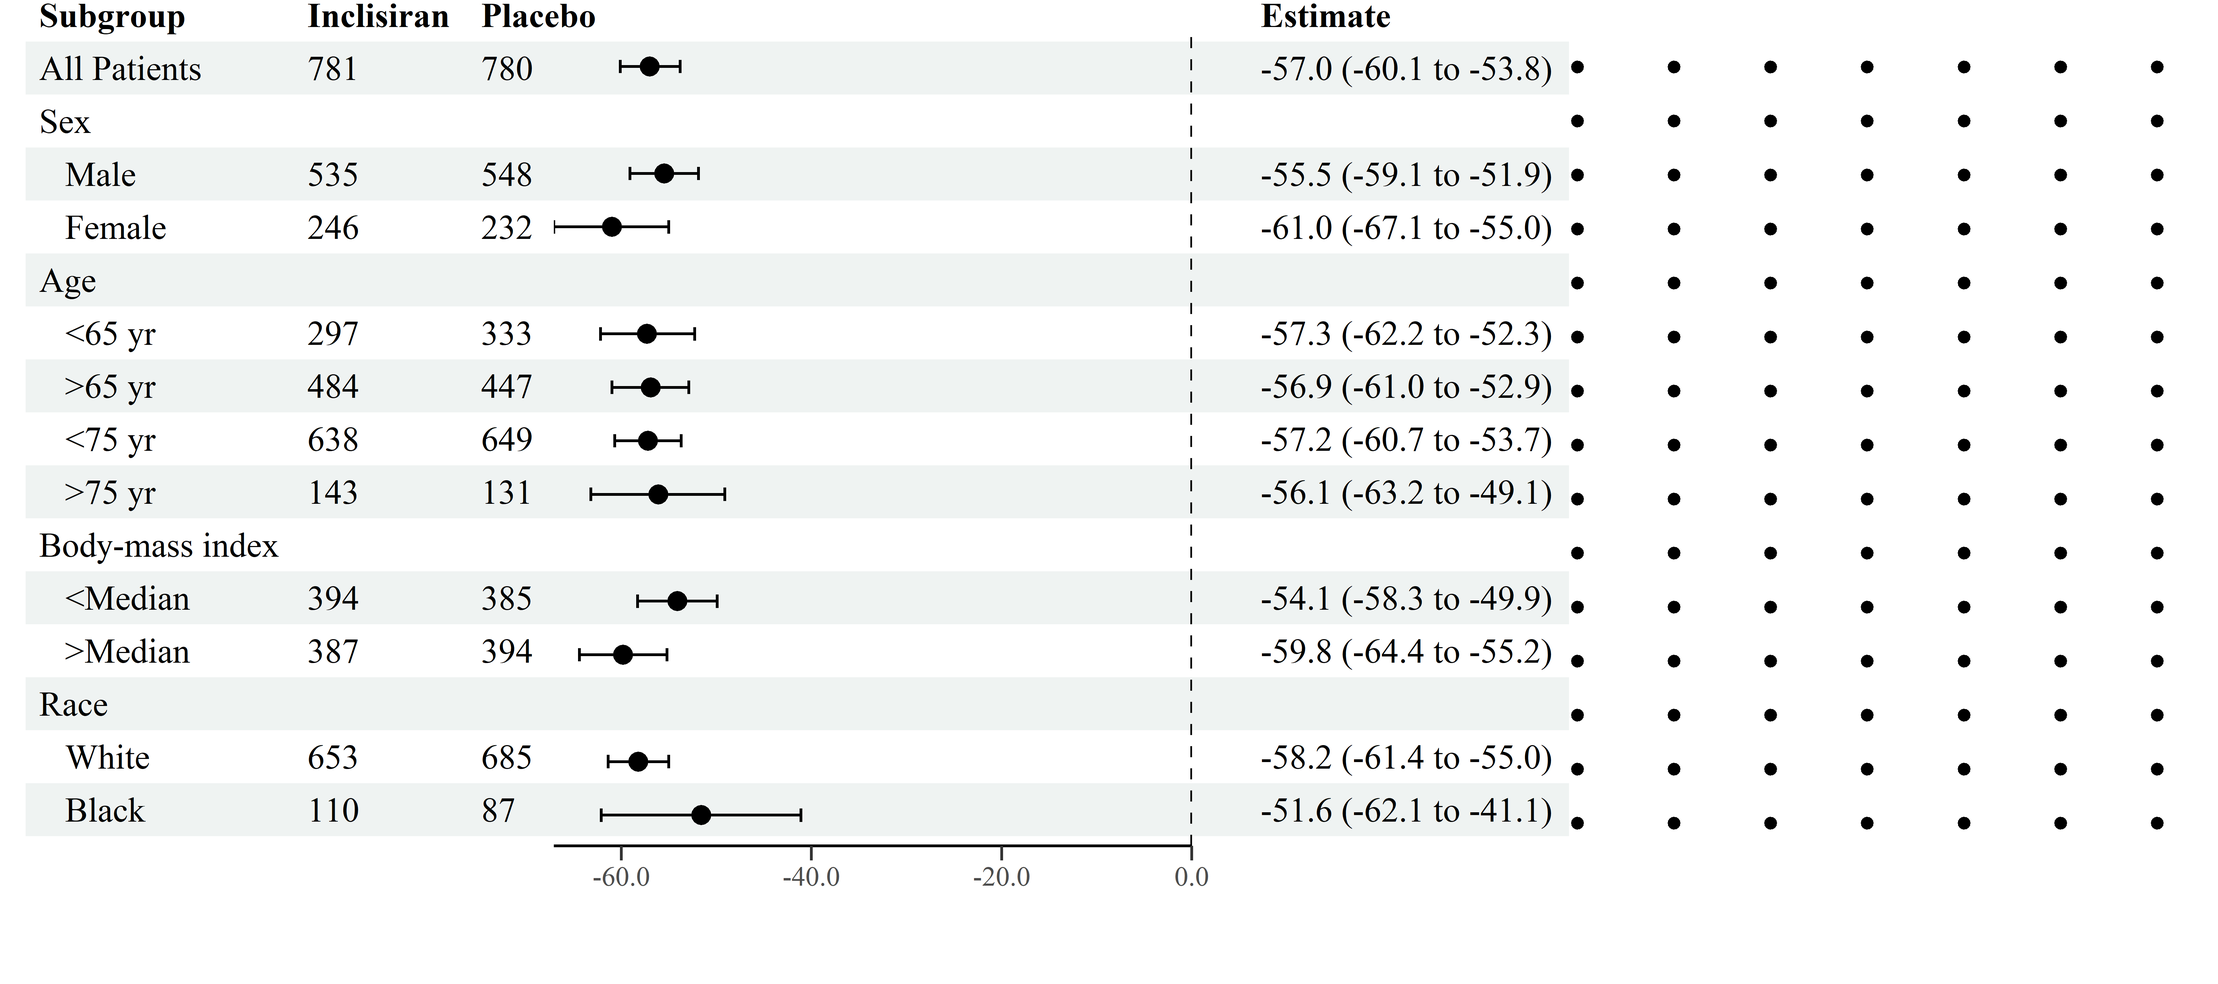
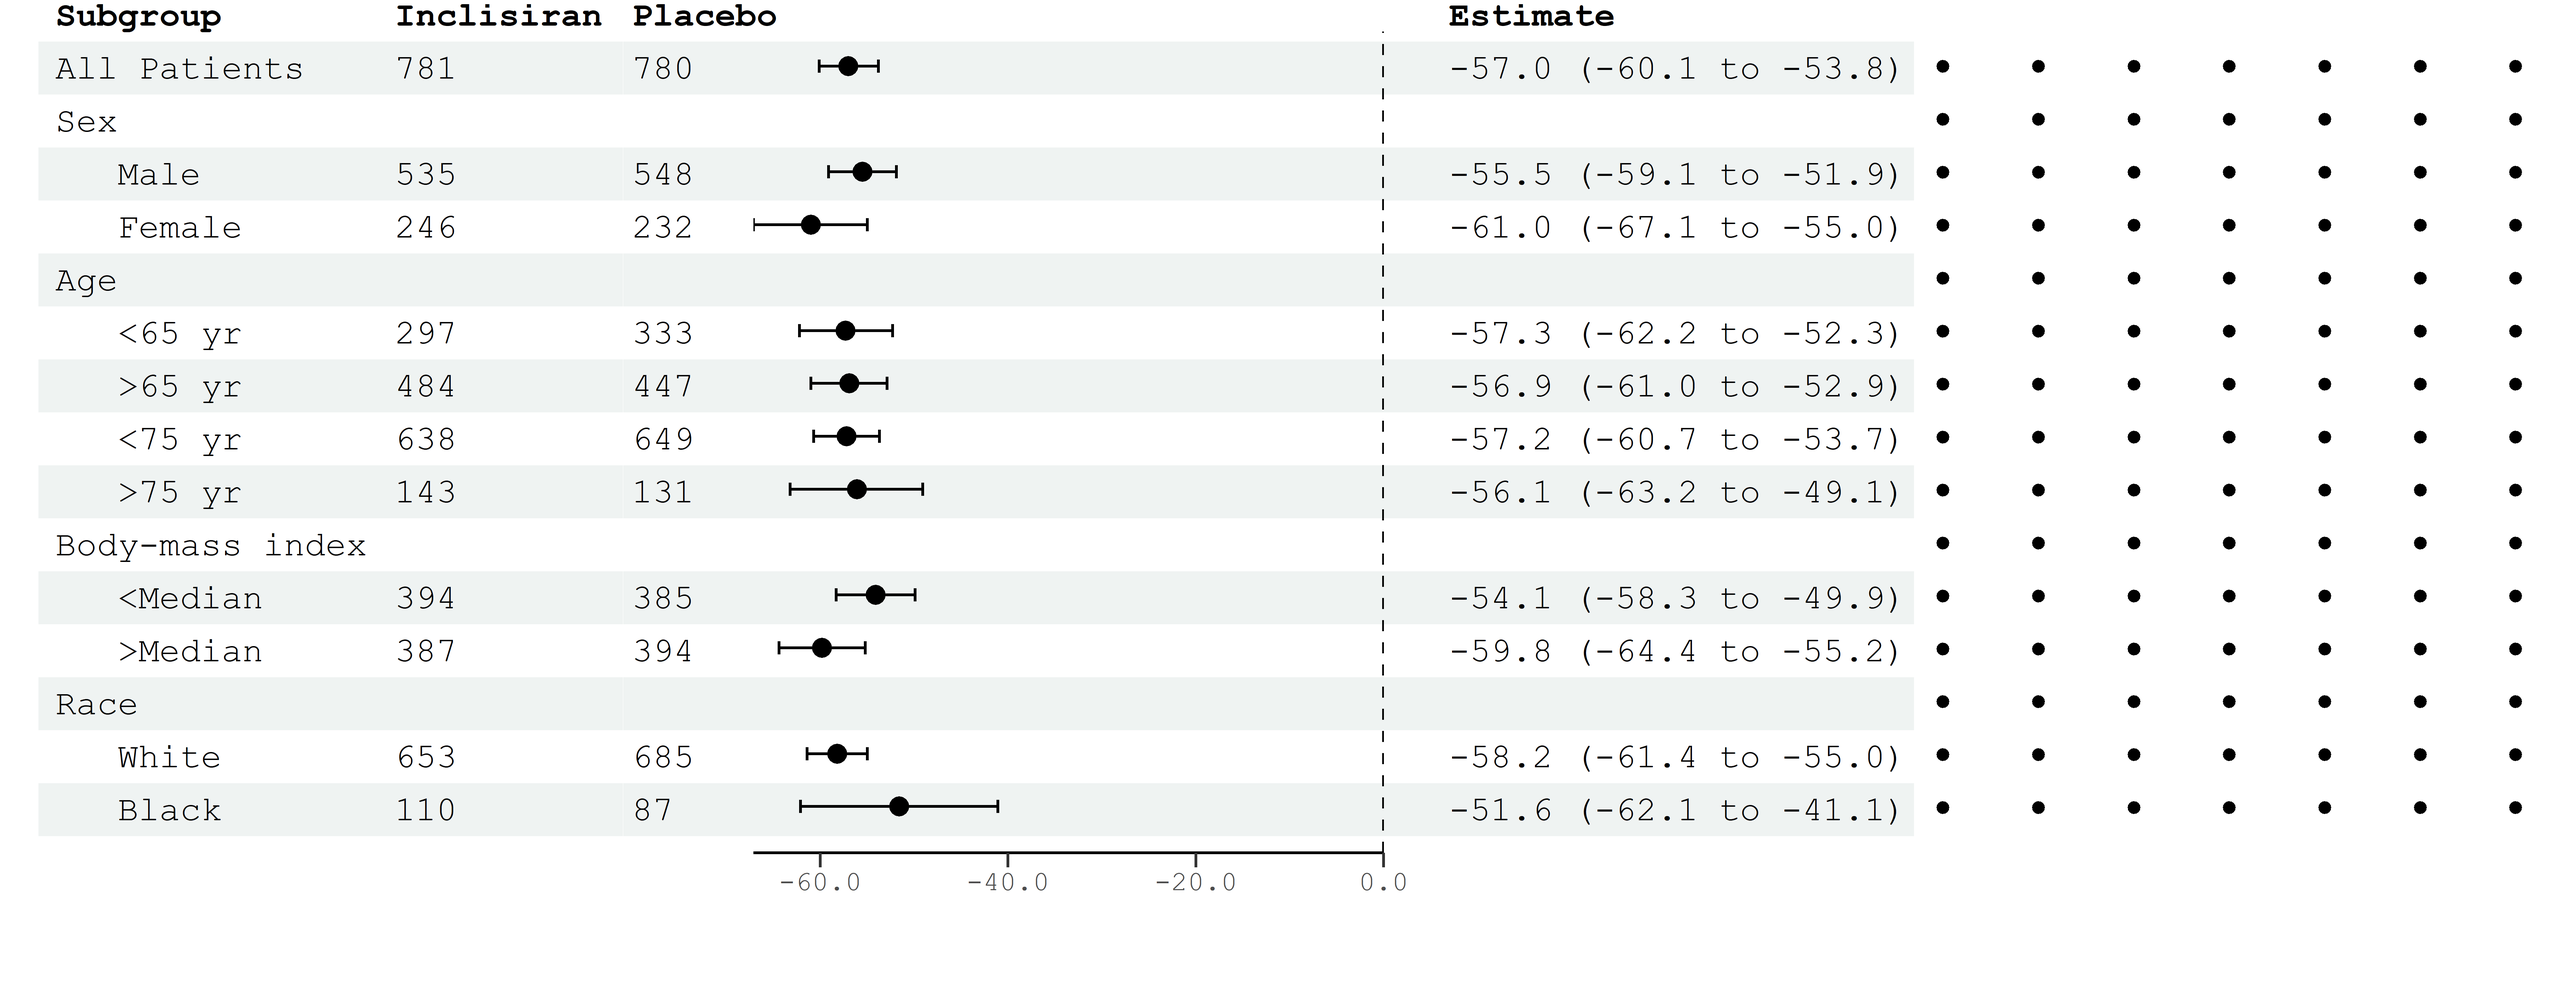
quiet down warnings, readme updated to include new features

diff --git a/README.md b/README.md
@@ -1,7 +1,7 @@
 
 <!-- README.md is generated from README.Rmd. Please edit that file -->
 
-# forester
+# Forester
 
 <!-- badges: start -->
 <!-- badges: end -->
@@ -19,7 +19,7 @@ from this github repo.
 devtools::install_github("rdboyes/forester")
 ```
 
-## Example
+## Basic Usage
 
 Suppose we wish to replicate the following figure published in the NEJM
 \[1\]:
@@ -51,14 +51,11 @@ forester(left_side_data = table[,1:3],
            display = FALSE,
            xlim = c(-100, 25),
            file_path = here::here("man/figures/forester_plot.png"))
-#> Scale for 'x' is already present. Adding another scale for 'x', which will
-#> replace the existing scale.
-#> Warning: Removed 8 rows containing missing values (geom_point).
 ```
 
 ![](man/figures/forester_plot.png)
 
-forester handles the alignment of the graph and the table automatically,
+Forester handles the alignment of the graph and the table automatically,
 so figures with fewer rows or columns should work by simply passing a
 smaller data frame to the function:
 
@@ -69,9 +66,6 @@ forester(left_side_data = table[1:12,1:3],
            ci_high = table$`CI high`[1:12],
            display = FALSE,
            file_path = here::here("man/figures/fewer_rows.png"))
-#> Scale for 'x' is already present. Adding another scale for 'x', which will
-#> replace the existing scale.
-#> Warning: Removed 3 rows containing missing values (geom_point).
 ```
 
 ![](man/figures/fewer_rows.png)
@@ -83,19 +77,26 @@ forester(left_side_data = table[,1],
            ci_high = table$`CI high`,
            display = FALSE,
            file_path = here::here("man/figures/fewer_cols.png"))
-#> Scale for 'x' is already present. Adding another scale for 'x', which will
-#> replace the existing scale.
-#> Warning: Removed 8 rows containing missing values (geom_point).
 ```
 
 ![](man/figures/fewer_cols.png)
 
-## Additional Fonts
+## Display Options
 
-While Courier has a certain appeal, you might want to give your tables a
-more modern look. However, due to the difficulty of aligning all
-elements when using them, the use of non-monospaced fonts should be
-considered experimental at this stage.
+By default, forester will both display the plot in the RStudio viewer
+(`display = TRUE`) and save a high quality version to the current
+directory (`file_path = here::here("forester_plot.png")`) at a
+resolution controllable by `dpi`. When making a rmarkdown document (such
+as this one), these options should be overwritten as required. You can
+display the images created by forester using standard RMarkdown syntax
+(i.e. `![](path)`).
+
+## Font Families
+
+Pass any font to `font_family` to control the output font. Tested
+options include `"mono"`, `"sans"`, and `"serif"`. Any font will work,
+but alignment may not be perfect for untested fonts. Use the provided
+options `nudge_x` and `nudge_y` to correct alignment issues.
 
 ``` r
 library(extrafont)
@@ -111,47 +112,103 @@ forester(left_side_data = table[,1:3],
            display = FALSE,
            file_path = here::here("man/figures/forester_plot_fira.png"),
            font_family = "Fira Sans")
-#> Scale for 'x' is already present. Adding another scale for 'x', which will
-#> replace the existing scale.
-#> Warning: Removed 8 rows containing missing values (geom_point).
 ```
 
-![](man/figures/forester_plot_fira.png) Adjusting table properties with
-different fonts will still work:
+![](man/figures/forester_plot_fira.png)
+
+## Right Side Data
+
+The option `estimate_precision` can be used to change the number of
+decimals displayed in the right hand side table. `estimate_col_name`
+allows you to change the name of the default right side column. If you
+require more control, pass a dataframe to `right_side_data` to override
+the right side completely.
 
 ``` r
-forester(left_side_data = table[1:12,1:3],
-           estimate = table$Estimate[1:12],
-           ci_low = table$`CI low`[1:12],
-           ci_high = table$`CI high`[1:12],
+forester(left_side_data = table[,1],
+           estimate = table$Estimate,
+           ci_low = table$`CI low`,
+           ci_high = table$`CI high`,
            display = FALSE,
+           estimate_precision = 3,
+           estimate_col_name = "Estimate (95% CI)",
+           file_path = here::here("man/figures/more_precise.png"))
+```
+
+![](man/figures/more_precise.png)
+
+## Plot Width
+
+Change `ggplot_width` from its default value of 30 to adjust the
+relative amount of space that the figure takes up. `nudge_x` can be used
+to correct alignment issues if this option causes any.
+
+``` r
+forester(left_side_data = table[,1],
+           estimate = table$Estimate,
+           ci_low = table$`CI low`,
+           ci_high = table$`CI high`,
+           display = FALSE,
+           ggplot_width = 40,
+           nudge_x = .5,
+           file_path = here::here("man/figures/more_plot_width.png"))
+```
+
+![](man/figures/more_plot_width.png)
+
+## Limits, Breaks, and the Null Line
+
+Limits and breaks are set automatically, but the defaults can be
+overwritten using `xlim` (use a vector of length 2, i.e. c(low, high))
+and `xbreaks` (use a vector indicating the breaks). `null_line_at`
+defaults to 0, but can be set to any value. This would be most commonly
+used to set the `null_line_at = 1.0` for relative measures.
+`x_scale_linear` defaults to `TRUE` but can be set to `FALSE` if a
+logarithmic scale is required. If a confidence interval extends outside
+the range set by `xlim`, it will automatically be indicated using an
+arrow.
+
+``` r
+forester(left_side_data = table[,1:3],
+           estimate = table$Estimate,
+           ci_low = table$`CI low`,
+           ci_high = table$`CI high`,
+           display = FALSE,
+           file_path = here::here("man/figures/limit_breaks.png"),
            font_family = "Fira Sans",
-           file_path = here::here("man/figures/fewer_rows_fira.png"))
-#> Scale for 'x' is already present. Adding another scale for 'x', which will
-#> replace the existing scale.
-#> Warning: Removed 3 rows containing missing values (geom_point).
+           null_line_at = -50,
+           xlim = c(-100, -25),
+           xbreaks = c(-100, -75, -50, -25))
 ```
 
-![](man/figures/fewer_rows_fira.png)
+![](man/figures/limit_breaks.png)
+
+## Table Colour Options
+
+As pointed out
+[here](https://twitter.com/davidrfeinberg/status/1375417579095924738),
+the default colour scheme looks a bit retro. Personally, I like the
+default stripe colour “\#eff3f2”, but you can change the stripe colour
+to anything you want :)
 
 ``` r
-windowsFonts("Times New Roman" = windowsFont("Times New Roman"))
-
-forester(left_side_data = table[1:12,1:3],
-           estimate = table$Estimate[1:12],
-           ci_low = table$`CI low`[1:12],
-           ci_high = table$`CI high`[1:12],
+forester(left_side_data = table[,1:3],
+           estimate = table$Estimate,
+           ci_low = table$`CI low`,
+           ci_high = table$`CI high`,
            display = FALSE,
-           font_family = "Times New Roman",
-           file_path = here::here("man/figures/fewer_rows_times.png"))
-#> Scale for 'x' is already present. Adding another scale for 'x', which will
-#> replace the existing scale.
-#> Warning: Removed 3 rows containing missing values (geom_point).
+           file_path = here::here("man/figures/stripe_colour.png"),
+           font_family = "Fira Sans",
+           stripe_colour = "#ff0000"
+           )
 ```
 
-![](man/figures/fewer_rows_times.png)
+![](man/figures/stripe_colour.png)
 
-## Adding Arrows (Experimental)
+## Adding Arrows
+
+Arrows can be added below the plot area (with `arrows = TRUE`) and
+labelled (with `arrow_labels = c("Left Label", "Right Label")`).
 
 ``` r
 forester(left_side_data = table[,1:3],
@@ -161,19 +218,48 @@ forester(left_side_data = table[,1:3],
            display = FALSE,
            file_path = here::here("man/figures/forester_plot_arrows.png"),
            font_family = "Fira Sans",
-           null_line_at = -50,
-           xlim = c(-100, -25),
-           xbreaks = c(-100, -75, -50, -25),
+           null_line_at = 0,
+           xlim = c(-100, 25),
+           xbreaks = c(-100, -75, -50, -25, 0, 25),
            arrows = TRUE, 
            arrow_labels = c("Inclisiran Better", "Placebo Better"))
-#> Scale for 'x' is already present. Adding another scale for 'x', which will
-#> replace the existing scale.
-#> Warning: Removed 8 rows containing missing values (geom_point).
 ```
 
 ![](man/figures/forester_plot_arrows.png)
 
-## Adding additional ggplot objects (Experimental)
+## Point Size and Shape
+
+The size and shape of the points can be controlled using vectors of
+values passed to `point_sizes` and `point_shapes`.
+
+``` r
+shapes <- rep(16, times = 30)
+
+shapes[1] <- 17
+
+sizes <- rep(3.25, times = 30)
+
+sizes[30] <- 5
+
+forester(left_side_data = table[,1:3],
+           estimate = table$Estimate,
+           ci_low = table$`CI low`,
+           ci_high = table$`CI high`,
+           display = FALSE,
+           file_path = here::here("man/figures/size_shape.png"),
+           font_family = "Fira Sans",
+           null_line_at = 0,
+           xlim = c(-100, 25),
+           xbreaks = c(-100, -75, -50, -25, 0, 25),
+           arrows = TRUE, 
+           arrow_labels = c("Inclisiran Better", "Placebo Better"),
+           point_sizes = sizes,
+           point_shapes = shapes)
+```
+
+![](man/figures/size_shape.png)
+
+## Adding Additional ggplot Objects
 
 Custom ggplot objects can be passed to the `forester` function using the
 parameter `add_plot`. To align the plot with the rows of the table, the
@@ -194,12 +280,8 @@ forester(left_side_data = table[1:15,1:3],
            ci_low = table$`CI low`[1:15],
            ci_high = table$`CI high`[1:15],
            display = FALSE,
-           font_family = "Times New Roman",
            add_plot = ex_plot,
            file_path = here::here("man/figures/add_dots.png"))
-#> Scale for 'x' is already present. Adding another scale for 'x', which will
-#> replace the existing scale.
-#> Warning: Removed 4 rows containing missing values (geom_point).
 ```
 
 ![](man/figures/add_dots.png)
